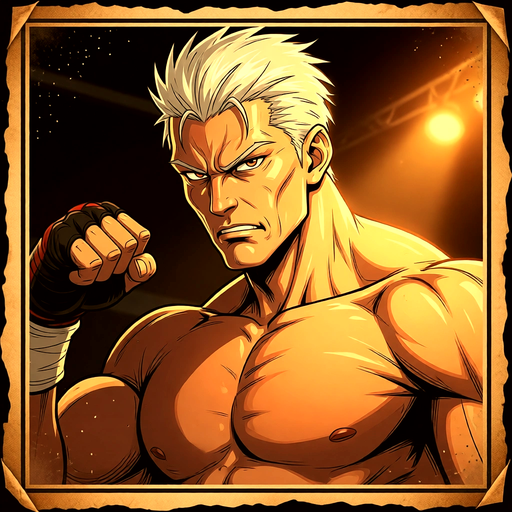
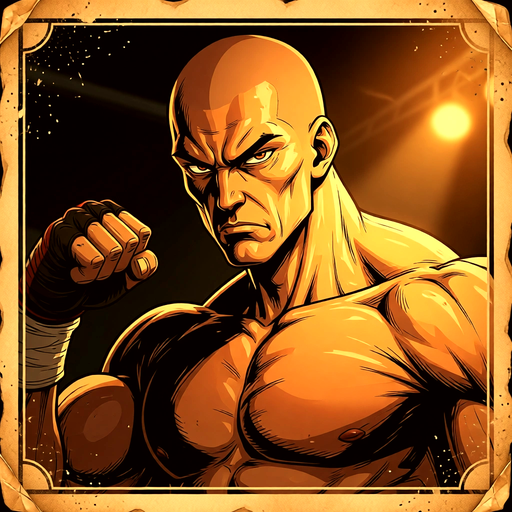
Redesign poster with fan layout; regenerate gym card bald
- gen_characters_s2.py: update gym card_prompt to bald/no-hair
- Regenerated src/SpotDiffS2/img/cards/gym.png (bald boxer)
- gen_poster_s2.py: fan layout — occult as main front character,
  5 supporting cards in semicircle arc behind, dark bg + gold rules
- Regenerated src/SpotDiffS2/img/poster.png

diff --git a/gen_poster_s2.py b/gen_poster_s2.py
@@ -1,11 +1,11 @@
 #!/usr/bin/env ~/miniconda3/bin/python3
 """
 Spot the Difference S2 — Poster Generator
-侦探风格海报，加入6个角色形象
+occult 主角居中前景大图，其余5张扇形背景排布
 """
 
-import datetime, hashlib, hmac, json, os, ssl, time, urllib.request, urllib.parse
-from PIL import Image, ImageDraw, ImageFont, ImageFilter, ImageEnhance
+import datetime, hashlib, hmac, json, math, os, ssl, time, urllib.request, urllib.parse
+from PIL import Image, ImageDraw, ImageFilter, ImageEnhance
 from io import BytesIO
 
 API_URL       = "http://aiservice.wdabuliu.com:8019/genl_image"
@@ -16,15 +16,12 @@ R2_ACCESS_KEY = "[removed-r2-access-key]"
 R2_SECRET_KEY = "[removed-r2-secret-key]"
 R2_BUCKET     = "aigram"
 R2_PUBLIC     = "https://images.aiwaves.tech"
-AVATAR_DIR    = "src/SpotDiffS2/img/avatars"
+CARD_DIR      = "src/SpotDiffS2/img/cards"
 OUT_PATH      = "src/SpotDiffS2/img/poster.png"
-SIZE          = 1024
 
 _SSL = ssl.create_default_context()
 _SSL.check_hostname = False
 _SSL.verify_mode = ssl.CERT_NONE
-
-SCENE_IDS = ["occult", "command", "lounge", "manor", "temple", "gym"]
 
 
 def _sign(key, msg):
@@ -96,81 +93,93 @@ def download_as_png(url: str, out_path: str):
     raise RuntimeError(f"Failed to download {url}")
 
 
+def paste_card(canvas: Image.Image, card_path: str, size: int, cx: int, cy: int, angle: float = 0):
+    """Load, resize, rotate and paste a card centered at (cx, cy)."""
+    card = Image.open(card_path).convert("RGBA")
+    card = card.resize((size, size), Image.LANCZOS)
+    if angle != 0:
+        card = card.rotate(-angle, expand=True, resample=Image.BICUBIC)
+    px = cx - card.width // 2
+    py = cy - card.height // 2
+    canvas.alpha_composite(card, (max(0, px), max(0, py)))
+
+
 def build_ref_collage() -> str:
     """
-    Build a 1024×1024 reference collage:
-    - Dark warm brown background
-    - 6 character avatar circles arranged in 2 rows × 3 cols at bottom
-    - Top area left for title + magnifying glass (dark)
+    Layout:
+      - Dark background
+      - Top ~22%: title area (dark, left for API to fill)
+      - Middle zone: 5 supporting cards fanned in a semicircle arc
+      - Bottom center: occult (main) card, larger, no rotation, on top of fan
     """
-    canvas = Image.new("RGB", (SIZE, SIZE), (26, 18, 10))  # very dark brown
+    W, H = 1024, 1024
+    canvas = Image.new("RGBA", (W, H), (18, 12, 6, 255))
+    draw = ImageDraw.Draw(canvas)
+    gold = (180, 140, 60)
 
-    # Avatar circle size and positions (2 rows × 3 cols, bottom 60% of canvas)
-    AVATAR_SIZE = 230
-    COLS, ROWS = 3, 2
-    start_y = 420
-    margin_x = (SIZE - COLS * AVATAR_SIZE) // (COLS + 1)
-    margin_y = (SIZE - start_y - ROWS * AVATAR_SIZE) // (ROWS + 1)
+    # Decorative rules
+    draw.rectangle([30, 224, W - 30, 228], fill=gold)
+    draw.rectangle([30, H - 60, W - 30, H - 56], fill=gold)
+    # Corner dots
+    for cx, cy in [(30, 224), (W-30, 224), (30, H-60), (W-30, H-60)]:
+        draw.ellipse([cx - 5, cy - 5, cx + 5, cy + 5], fill=gold)
 
-    for idx, sid in enumerate(SCENE_IDS):
-        row = idx // COLS
-        col = idx % COLS
-        x = margin_x + col * (AVATAR_SIZE + margin_x)
-        y = start_y + margin_y + row * (AVATAR_SIZE + margin_y)
+    # ── Fan of 5 supporting cards ──
+    # Pivot far below canvas; cards arc across the middle zone
+    PIVOT_X = W // 2
+    PIVOT_Y = H + 120          # pivot below canvas bottom
+    R        = 540             # pivot → card center distance
+    SUPPORT  = 240             # card size (px)
 
-        avatar_path = f"{AVATAR_DIR}/{sid}_avatar.png"
-        if not os.path.exists(avatar_path):
-            continue
+    support = [
+        ("lounge",  -60),
+        ("command", -30),
+        ("manor",     0),
+        ("temple",  +30),
+        ("gym",     +60),
+    ]
 
-        av = Image.open(avatar_path).convert("RGB").resize((AVATAR_SIZE, AVATAR_SIZE), Image.LANCZOS)
+    for sid, angle_deg in support:
+        angle_rad = math.radians(angle_deg)
+        cx = int(PIVOT_X + R * math.sin(angle_rad))
+        cy = int(PIVOT_Y - R * math.cos(angle_rad))
+        paste_card(canvas, f"{CARD_DIR}/{sid}.png", SUPPORT, cx, cy, angle_deg)
 
-        # Create circular mask
-        mask = Image.new("L", (AVATAR_SIZE, AVATAR_SIZE), 0)
-        draw = ImageDraw.Draw(mask)
-        draw.ellipse((0, 0, AVATAR_SIZE - 1, AVATAR_SIZE - 1), fill=255)
+    # ── Occult: main character, front-center, no rotation, larger ──
+    MAIN = 330
+    occult_cx = W // 2
+    occult_cy = H - MAIN // 2 - 55   # vertically centered in lower half, above bottom rule
+    paste_card(canvas, f"{CARD_DIR}/occult.png", MAIN, occult_cx, occult_cy, 0)
 
-        # Slight sepia tint on avatars
-        r, g, b = av.split()
-        r = r.point(lambda p: min(255, int(p * 1.05 + 15)))
-        g = g.point(lambda p: min(255, int(p * 0.95)))
-        b = b.point(lambda p: min(255, int(p * 0.80)))
-        av = Image.merge("RGB", (r, g, b))
-
-        # Gold ring border
-        ring = Image.new("RGBA", (AVATAR_SIZE + 8, AVATAR_SIZE + 8), (0, 0, 0, 0))
-        ring_draw = ImageDraw.Draw(ring)
-        ring_draw.ellipse((0, 0, AVATAR_SIZE + 7, AVATAR_SIZE + 7), outline=(200, 164, 80), width=4)
-        canvas.paste(ring.convert("RGB"), (x - 4, y - 4), ring.split()[3])
-
-        av_rgba = av.convert("RGBA")
-        av_rgba.putalpha(mask)
-        canvas.paste(av.convert("RGB"), (x, y), mask)
-
+    # Save
+    result = canvas.convert("RGB")
     tmp_path = "/tmp/s2_poster_ref.png"
-    canvas.save(tmp_path, "PNG")
+    result.save(tmp_path, "PNG")
     print(f"  Reference collage saved: {tmp_path}")
     return tmp_path
 
 
 POSTER_PROMPT = (
-    "vintage detective game poster illustration, 'SPOT DIFF II' large pixel art retro title at top, "
-    "giant golden magnifying glass with ornate handle in upper center, "
-    "six circular character portrait frames arranged in two rows at bottom, "
-    "each frame shows a unique character: demon goat in red robe, military commander, brown bear in denim, "
-    "elderly gentleman in tuxedo, glowing sage, muscular boxer, "
-    "dark warm brown background with aged parchment texture, "
-    "sepia amber gold color palette, dramatic detective noir lighting, "
-    "ornate vintage borders and decorative elements, "
-    "retro pixel font text, magnifying glass motif, "
-    "SEASON II badge, detective case file aesthetic, "
-    "high quality game poster art, square format"
+    "vintage detective game poster illustration, square 1:1 format, "
+    "large bold retro pixel title 'SPOT THE DIFFERENCE II' at top with golden magnifying glass emblem, "
+    "SEASON II gold badge below title, "
+    "center-bottom: large prominent portrait of a dark fantasy demon goat man with black curved horns and glowing blue eyes in crimson robe, "
+    "this is the main character shown large in front, "
+    "behind him: five smaller detective case file portraits fanned out in a semicircle arc — "
+    "military commander with medals, relaxed brown bear in denim jacket, "
+    "distinguished elderly gentleman in tuxedo, bald mystical sage with lightning energy, bald muscular boxer, "
+    "all portraits in aged parchment frames with gold borders, rotated at slight angles like a hand of cards, "
+    "dark walnut brown background with fog and shadow atmosphere, "
+    "warm sepia amber gold palette, dramatic chiaroscuro detective noir lighting, "
+    "ornate vintage decorative border frame around entire poster, "
+    "high quality atmospheric game key art"
 )
 
 
 def main():
     ts = int(time.time() * 1000)
 
-    print("Building reference collage...")
+    print("Building reference collage (fan layout)...")
     ref_path = build_ref_collage()
 
     print("Uploading reference...")
@@ -183,8 +192,7 @@ def main():
     tmp_out = f"/tmp/s2_poster_raw_{ts}.png"
     download_as_png(result_url, tmp_out)
 
-    # Resize to 1024×1024
-    img = Image.open(tmp_out).convert("RGB").resize((SIZE, SIZE), Image.LANCZOS)
+    img = Image.open(tmp_out).convert("RGB").resize((1024, 1024), Image.LANCZOS)
     img.save(OUT_PATH, "PNG")
     os.remove(tmp_out)
     print(f"✓ Poster saved: {OUT_PATH}")

diff --git a/gen_characters_s2.py b/gen_characters_s2.py
@@ -243,7 +243,7 @@ CHARACTERS = [
         ),
         "card_prompt": (
             "detective noir portrait illustration, muscular anime boxer character, "
-            "platinum white hair, strong jawline, athletic build, "
+            "completely bald shaved head NO HAIR, strong jawline, athletic build, "
             "boxing wraps visible, confident fierce expression, "
             "head and shoulders close-up, "
             "vintage detective case file style, warm amber dramatic tones, "
